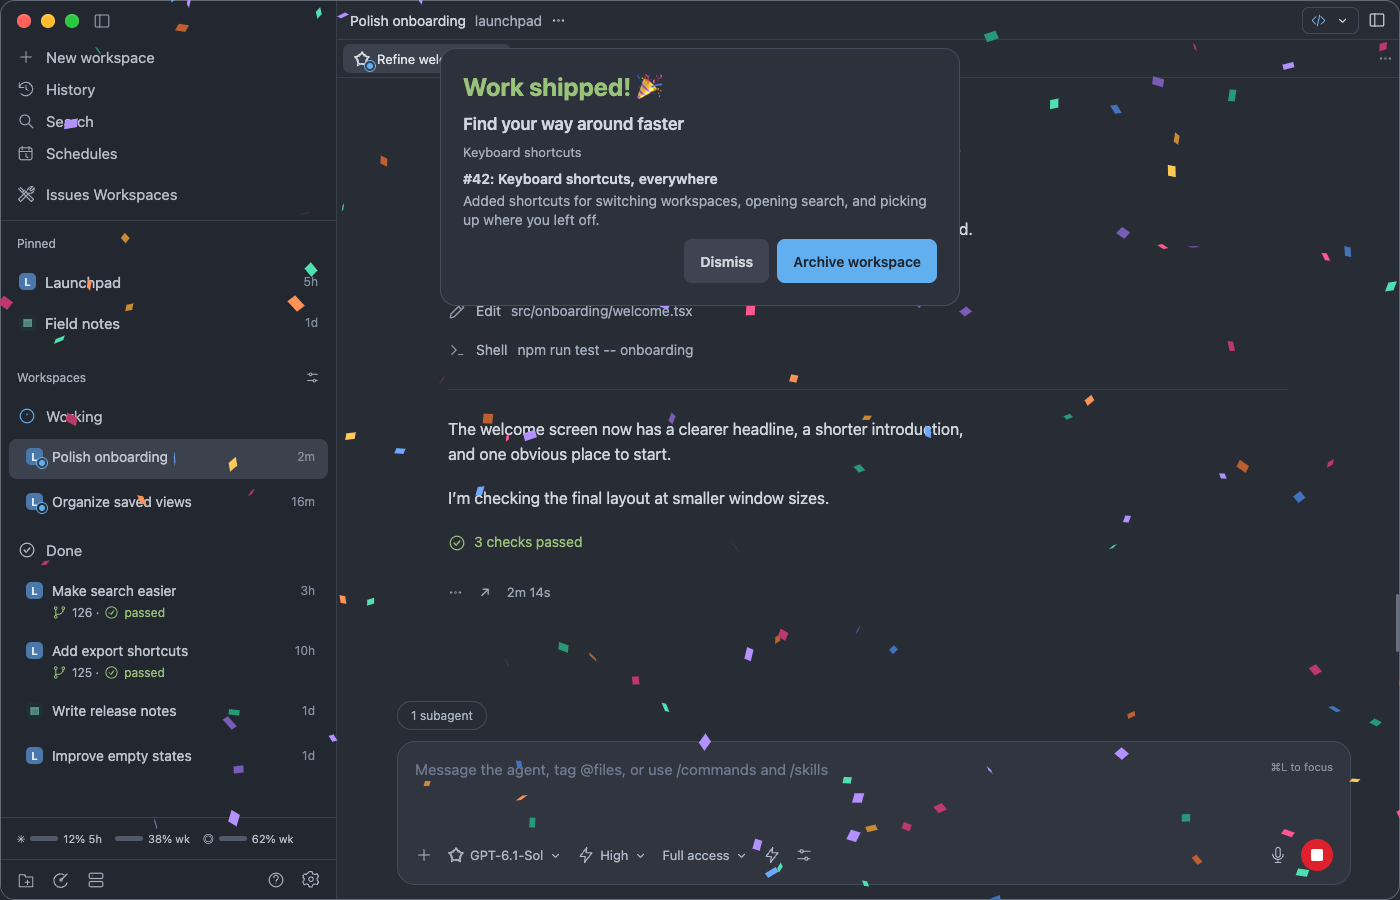
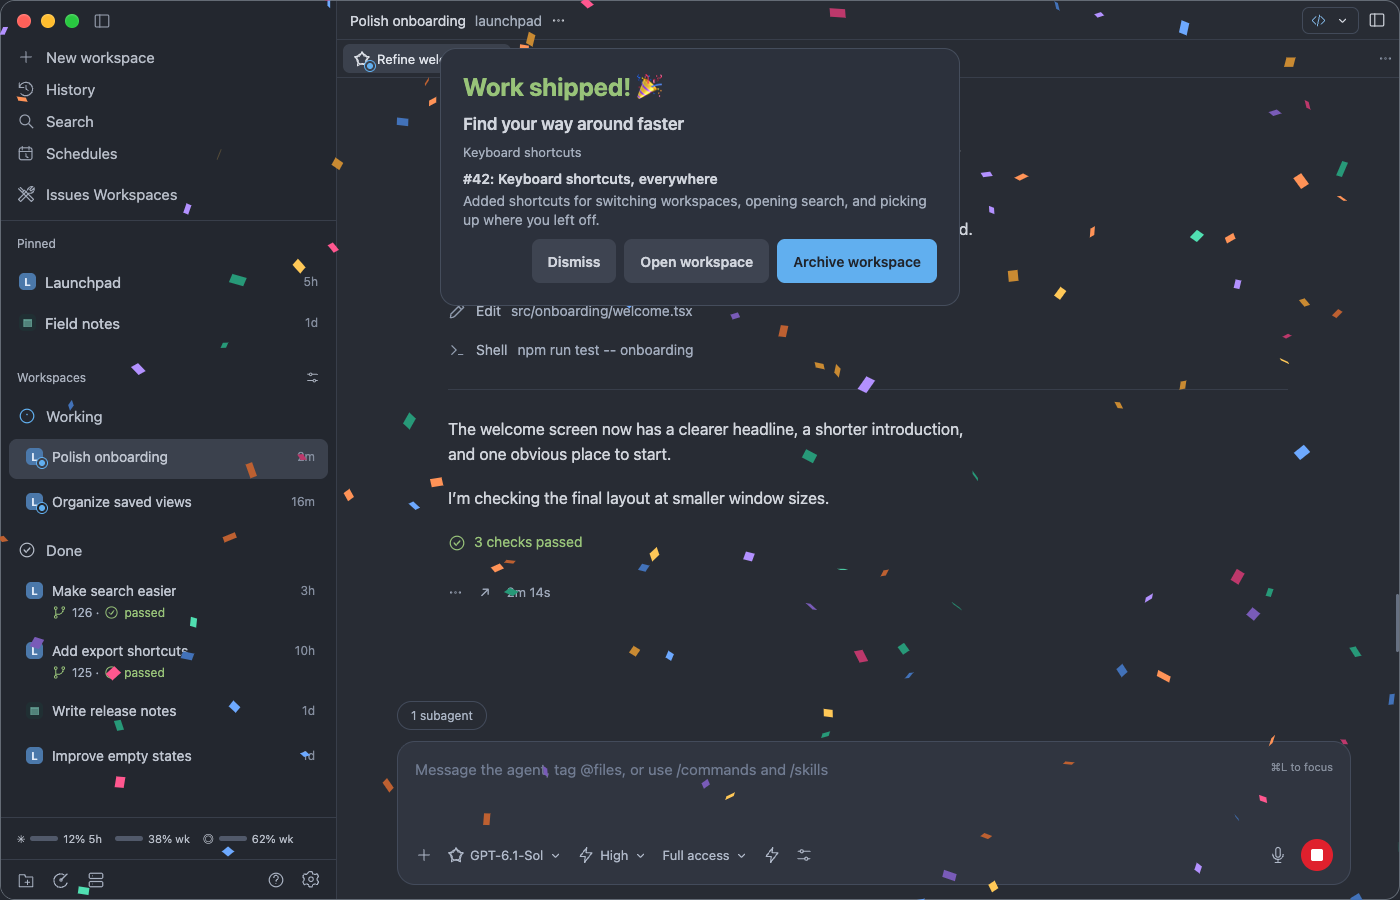
Open workspaces from merge celebrations

diff --git a/tests/browser/celebration.spec.ts b/tests/browser/celebration.spec.ts
@@ -323,10 +323,60 @@ test("a pending archive cannot repeat or dismiss the next celebration", async ({
   await page.getByRole("button", { name: "Archive workspace" }).click();
   await expect(page.getByRole("button", { name: "Archive workspace" })).toBeDisabled();
   await expect(page.locator("body")).toHaveAttribute("data-archive-count", "1");
+  await expect(page.getByRole("button", { name: "Open workspace", exact: true })).toBeDisabled();
   await page.evaluate(() => (window as unknown as { queueCelebration(id: string): void }).queueCelebration("next"));
   await page.getByRole("button", { name: "Dismiss celebration" }).click();
   await expect(page.locator("body")).toHaveAttribute("data-presented-celebration", "next");
   await page.evaluate(() => (window as unknown as { finishArchive(): void }).finishArchive());
   await expect(page.locator("body")).toHaveAttribute("data-archived-workspace", "merged-workspace");
   await expect(page.getByTestId("celebration-overlay")).toBeVisible();
+});
+
+
+for (const compact of [false, true]) {
+  test(`Open workspace navigates to the celebration workspace without archiving; compact=${compact}`, async ({ page }) => {
+    await page.setViewportSize(compact ? { width: 390, height: 844 } : { width: 1280, height: 800 });
+    await page.goto("/");
+    await page.evaluate(() => (window as unknown as { queueCelebration(): void }).queueCelebration());
+    await page.getByRole("button", { name: "Open workspace", exact: true }).click();
+    await expect(page.getByText("Opened workspace: merged-workspace on test")).toBeVisible();
+    await expect(page.getByTestId("celebration-overlay")).toHaveCount(0);
+    await expect(page.locator("body")).not.toHaveAttribute("data-archive-request");
+  });
+}
+
+test("preview Open workspace button cannot navigate or archive", async ({ page }) => {
+  await page.goto("/");
+  await page.getByRole("button", { name: "Preview merge celebration" }).click();
+  const open = page.getByRole("button", { name: "Open workspace", exact: true });
+  await expect(open).toBeVisible();
+  await expect(open).toBeDisabled();
+  await open.dispatchEvent("click");
+  await expect(page.getByText(/Opened workspace:/)).toHaveCount(0);
+  await expect(page.locator("body")).not.toHaveAttribute("data-archive-request");
+  await expect(page.getByTestId("celebration-overlay")).toBeVisible();
+});
+
+
+test("a failed workspace open keeps the celebration available for retry", async ({ page }) => {
+  await page.goto("/");
+  await page.evaluate(() => {
+    document.body.setAttribute("data-fail-open-screen", "");
+    (window as unknown as { queueCelebration(): void }).queueCelebration();
+  });
+  await page.getByRole("button", { name: "Open workspace", exact: true }).click();
+  await expect(page.getByRole("alert")).toHaveText("Could not open workspace.");
+  await expect(page.getByTestId("celebration-overlay")).toBeVisible();
+  await page.evaluate(() => document.body.removeAttribute("data-fail-open-screen"));
+  await page.getByRole("button", { name: "Open workspace", exact: true }).click();
+  await expect(page.getByText("Opened workspace: merged-workspace on test")).toBeVisible();
+  await expect(page.getByTestId("celebration-overlay")).toHaveCount(0);
+});
+
+test("clients without workspace navigation show a useful fallback", async ({ page }) => {
+  await page.goto("/?no-navigation");
+  await page.evaluate(() => (window as unknown as { queueCelebration(): void }).queueCelebration());
+  await page.getByRole("button", { name: "Open workspace", exact: true }).click();
+  await expect(page.getByRole("alert")).toHaveText("Open this workspace from the sidebar.");
+  await expect(page.locator("body")).not.toHaveAttribute("data-archive-request");
 });

diff --git a/tests/browser/main.tsx b/tests/browser/main.tsx
@@ -1,7 +1,7 @@
-import React, { useState, type ComponentType } from "react";
+import React, { useState, useMemo, type ComponentType } from "react";
 import { createRoot } from "react-dom/client";
 import { Pressable, Text, TextInput, View } from "react-native";
-import type { PluginClientContext, PluginHostProps } from "@getpaseo/plugin/client";
+import type { PluginClientContext, PluginHostProps, PluginScreenProps, PluginOpenScreenInput } from "@getpaseo/plugin/client";
 import contribute from "../../index.client";
 import { createBroker } from "../../server/broker";
 import { previewCelebration } from "../../shared/celebration";
@@ -9,9 +9,20 @@ import { setTestSettings } from "./host";
 let Bridge: ComponentType<PluginHostProps>;
 let preview: () => void;
 let restoreSnapshot = () => {};
+const screens = new Map<string, ComponentType<PluginScreenProps>>();
+let showScreen = (_screen: PluginOpenScreenInput) => {};
 const broker = createBroker();
 const host = { id: "test", label: "Test host" };
 const pluginContext = {
+  addScreen({ id, Component }: { id: string; Component: ComponentType<PluginScreenProps> }) {
+    screens.set(id, Component);
+    return () => screens.delete(id);
+  },
+  openScreen(screen: PluginOpenScreenInput) {
+    if (document.body.hasAttribute("data-fail-open-screen")) throw new Error("Could not open workspace.");
+    if (!screens.has(screen.screenId)) throw new Error("Unknown screen");
+    showScreen(screen);
+  },
   addSidebarFooterItem({ Component }: { Component: ComponentType<PluginHostProps> }) {
     Bridge = Component;
     return () => {};
@@ -71,6 +82,17 @@ Object.assign(window, {
 const cleanup = contribute(pluginContext as unknown as PluginClientContext);
 function App() {
   const [count, setCount] = useState(0);
+  const [screen, setScreen] = useState<PluginOpenScreenInput | null>(null);
+  const [openedWorkspace, setOpenedWorkspace] = useState("");
+  showScreen = setScreen;
+  const Screen = screen ? screens.get(screen.screenId) : undefined;
+  const navigation = useMemo(() => ({
+    openWorkspace({ workspaceId, serverId }: { workspaceId: string; serverId?: string }) {
+      setOpenedWorkspace(`${workspaceId} on ${serverId}`);
+      setScreen(null);
+    },
+    openAgent() {},
+  }), []);
   const [dark, setDark] = useState(true);
   const compact = new URLSearchParams(location.search).has("compact");
   const theme = {
@@ -143,6 +165,14 @@ function App() {
           <Text style={{ color: theme.colors.foreground }}>Reconnect host</Text>
         </Pressable>
       </View>
+      {openedWorkspace && <Text>Opened workspace: {openedWorkspace}</Text>}
+      {Screen && screen && (
+        <Screen
+          host={host} theme={theme} layout={{ compact, platform: "web" }}
+          params={screen.params ?? {}}
+          navigation={new URLSearchParams(location.search).has("no-navigation") ? undefined : navigation}
+        />
+      )}
       <Bridge host={host} layout={{ compact, platform: "web" }} theme={theme} />
     </View>
   );

diff --git a/client/celebration.tsx b/client/celebration.tsx
@@ -34,10 +34,12 @@ export function CelebrationOverlay({
   store,
   settings,
   onArchive,
+  onOpenWorkspace,
 }: Pick<PluginHostProps, "theme" | "layout"> & {
   store: CelebrationStore;
   settings: CelebrationSettings;
   onArchive?: (workspaceId: string) => Promise<void>;
+  onOpenWorkspace?: (workspaceId: string) => void;
 }) {
   const event = useSyncExternalStore(store.subscribe, store.getSnapshot, store.getSnapshot);
   const motionGeneration = useSyncExternalStore(
@@ -133,6 +135,7 @@ export function CelebrationOverlay({
                 theme={theme}
                 workspaceId={event.workspaceId}
                 onArchive={onArchive}
+                onOpenWorkspace={onOpenWorkspace}
                 onDismiss={() => {
                   if (store.getSnapshot()?.id === event.id) store.dismiss();
                 }}
@@ -149,16 +152,29 @@ function CelebrationActions({
   theme,
   workspaceId,
   onArchive,
+  onOpenWorkspace,
   onDismiss,
 }: {
   theme: PluginHostProps["theme"];
   workspaceId?: string;
   onArchive?: (workspaceId: string) => Promise<void>;
+  onOpenWorkspace?: (workspaceId: string) => void;
   onDismiss: () => void;
 }) {
   const [archiving, setArchiving] = useState(false);
   const [error, setError] = useState<string | null>(null);
   const archiveDisabled = !workspaceId || !onArchive || archiving;
+  const openDisabled = !workspaceId || !onOpenWorkspace || archiving;
+  function openWorkspace() {
+    if (!workspaceId || !onOpenWorkspace || archiving) return;
+    setError(null);
+    try {
+      onOpenWorkspace(workspaceId);
+      onDismiss();
+    } catch (error) {
+      setError(error instanceof Error ? error.message : "Could not open workspace. Try again.");
+    }
+  }
   async function archive() {
     if (!workspaceId || !onArchive || archiving) return;
     setArchiving(true);
@@ -194,6 +210,16 @@ function CelebrationActions({
           style={{ ...button, backgroundColor: theme.colors.surface2 }}
         >
           <Text style={{ color: theme.colors.foreground, fontWeight: "600" }}>Dismiss</Text>
+        </Pressable>
+        <Pressable
+          accessibilityRole="button"
+          accessibilityLabel="Open workspace"
+          accessibilityState={{ disabled: openDisabled }}
+          disabled={openDisabled}
+          onPress={openWorkspace}
+          style={{ ...button, backgroundColor: theme.colors.surface2, opacity: openDisabled ? 0.6 : 1 }}
+        >
+          <Text style={{ color: theme.colors.foreground, fontWeight: "600" }}>Open workspace</Text>
         </Pressable>
         <Pressable
           accessibilityRole="button"

diff --git a/index.client.tsx b/index.client.tsx
@@ -6,6 +6,7 @@ import { createPresentationStore, type PresentationStore } from "./client/presen
 import { mountBrowserOverlay } from "./client/web";
 import { startLiveEvents, reportPresented } from "./client/events";
 import { SettingsScreen, useSettingsBridge } from "./client/settings";
+import { OpenWorkspaceScreen } from "./client/workspace";
 import { previewCelebration } from "./shared/celebration";
 
 function ThemeBridge({
@@ -22,9 +23,17 @@ export default function contribute(client: PluginClientContext) {
   if (Platform.OS !== "web") return () => {};
   const store = createCelebrationStore();
   const presentation = createPresentationStore();
+  const removeOpenWorkspace = client.addScreen({
+    id: "open-workspace",
+    title: "Open workspace",
+    Component: OpenWorkspaceScreen,
+  });
   const unmount = mountBrowserOverlay({
     store,
     presentation,
+    onOpenWorkspace(workspaceId) {
+      client.openScreen({ screenId: "open-workspace", params: { workspaceId } });
+    },
     async onArchive(workspaceId) {
       const result = await client.paseo.workspaces.archive(workspaceId);
       if (result.error) throw new Error(result.error);
@@ -87,6 +96,7 @@ export default function contribute(client: PluginClientContext) {
     },
   });
   return () => {
+    removeOpenWorkspace();
     removeOpenSettings();
     removePreview();
     removeSettings();

diff --git a/client/workspace.tsx b/client/workspace.tsx
@@ -1,0 +1,26 @@
+import { useEffect, useState } from "react";
+import { Text } from "react-native";
+import type { PluginScreenProps } from "@getpaseo/plugin/client";
+
+/** Navigation is supplied to plugin screens, rather than the detached overlay. */
+export function OpenWorkspaceScreen({ navigation, host, params, theme }: PluginScreenProps) {
+  const workspaceId = params.workspaceId;
+  const [error, setError] = useState<string | null>(null);
+  useEffect(() => {
+    if (!navigation || !workspaceId) return;
+    try {
+      navigation.openWorkspace({ workspaceId, serverId: host.id });
+    } catch (error) {
+      setError(error instanceof Error ? error.message : "Could not open workspace. Try the sidebar.");
+    }
+  }, [navigation, host.id, workspaceId]);
+  const unavailable = !navigation || !workspaceId;
+  return (
+    <Text
+      accessibilityRole={error || unavailable ? "alert" : undefined}
+      style={{ color: theme.colors.foregroundMuted }}
+    >
+      {error ?? (unavailable ? "Open this workspace from the sidebar." : "Opening workspace…")}
+    </Text>
+  );
+}

diff --git a/client/root.tsx b/client/root.tsx
@@ -7,10 +7,17 @@ import type { PresentationStore } from "./presentation";
 export interface OverlayRootProps {
   store: CelebrationStore;
   presentation: PresentationStore;
+  onOpenWorkspace?: (workspaceId: string) => void;
   onArchive?: (workspaceId: string) => Promise<void>;
   onPresented?: (id: string) => void;
 }
-export function OverlayRoot({ store, presentation, onPresented, onArchive }: OverlayRootProps) {
+export function OverlayRoot({
+  store,
+  presentation,
+  onPresented,
+  onArchive,
+  onOpenWorkspace,
+}: OverlayRootProps) {
   const [visible, setVisible] = useState(AppState.currentState === "active");
   useEffect(() => {
     const subscription = AppState.addEventListener("change", (state) => {
@@ -43,6 +50,7 @@ export function OverlayRoot({ store, presentation, onPresented, onArchive }: Ove
       store={store}
       settings={settings}
       onArchive={onArchive}
+      onOpenWorkspace={onOpenWorkspace}
     />
   );
 }

diff --git a/shared/celebration.ts b/shared/celebration.ts
@@ -49,7 +49,7 @@ export const previewCelebration: Celebration = {
       number: 42,
       title: "Celebrate shipped work",
       summary:
-        "Added a fullscreen celebration when a pull request merges, with dismiss and archive buttons and support for reduced motion.",
+        "Added a fullscreen celebration when a pull request merges, with dismiss, open workspace and archive buttons and support for reduced motion.",
     },
   ],
 };

diff --git a/tests/browser/marketing.tsx b/tests/browser/marketing.tsx
@@ -20,7 +20,12 @@ presentation.update({
     statusDanger: "#e06c75",
   },
 });
-mountBrowserOverlay({ store, presentation, onArchive: async () => { store.dismiss(); } });
+mountBrowserOverlay({
+  store,
+  presentation,
+  onOpenWorkspace: () => { store.dismiss(); },
+  onArchive: async () => { store.dismiss(); },
+});
 store.show({
   id: "marketing-preview",
   workspaceName: "Keyboard shortcuts",

diff --git a/DEVELOPMENT.md b/DEVELOPMENT.md
@@ -1,6 +1,6 @@
 # Setup and development
 
-Fullscreen confetti over the current Paseo desktop/browser window when Paseo detects a workspace's GitHub PR merge. Includes Dismiss and Archive workspace buttons, linked issue recaps, reduced-motion support and **Preview merge celebration** in the Command Center. The current screen stays mounted and usable.
+Fullscreen confetti over the current Paseo desktop/browser window when Paseo detects a workspace's GitHub PR merge. Includes Dismiss, Open workspace and Archive workspace buttons, linked issue recaps, reduced-motion support and **Preview merge celebration** in the Command Center. The current screen stays mounted and usable.
 
 This version supports **stock Paseo 0.11.2 through 0.12.x**, including a 0.12.0 app connected to a 0.11.2 daemon. It needs no app patch, app rebuild or daemon restart. The earlier patch-dependent implementation has been replaced.
 
@@ -48,7 +48,7 @@ Before accepting a live client, the server observes workspace descriptors throug
 
 The server captures repository and branch identity from descriptors, falling back to Git when needed. It reads `refs/heads/<branch>` from the main repository, checks the known PR or GitHub's PRs associated with that exact commit, and requires an identical PR head SHA, `MERGED` state and a merge timestamp. Updates are deduplicated by workspace and PR URL, including after presentation. Failed checks can retry on later descriptor updates. Subscription observation continues after client leases expire, so a detected merge can wait for a client to reconnect.
 
-The recap offers **Dismiss**, which closes the celebration and keeps the workspace, and **Archive workspace**, which calls the selected host's normal `paseo.workspaces.archive(workspaceId)` SDK method. Archive requests disable the archive button while pending. A failed request shows an error and leaves both dismissal and retry available. Success dismisses only the originating celebration, so a later queued recap stays open. Previews carry no workspace ID and show a disabled Archive workspace button that cannot call the archive API. If a descriptor already has `archivingAt`, its celebration disables the archive action. Paseo's own automatic archival setting still applies; disable it to choose archival from this dialog.
+The recap offers **Dismiss**, which closes the celebration and keeps the workspace, **Open workspace**, which navigates to the celebration’s workspace and closes the recap, and **Archive workspace**, which calls the selected host's normal `paseo.workspaces.archive(workspaceId)` SDK method. Archive requests disable the archive button while pending. A failed request shows an error and leaves both dismissal and retry available. Success dismisses only the originating celebration, so a later queued recap stays open. Previews carry no workspace ID and disable both workspace actions. Open workspace uses a registered plugin screen to access the public `navigation.openWorkspace({ workspaceId, serverId: host.id })` capability, so navigation stays on the celebration’s host. Clients without navigation show a sidebar fallback. While archival is pending, opening the workspace is disabled. If a descriptor already has `archivingAt`, its celebration disables the archive action. Paseo's own automatic archival setting still applies; disable it to choose archival from this dialog.
 
 Up to three GitHub closing issues get a 300-character plain text excerpt. Missing issue bodies fall back to issue titles. If an issue cannot be fetched, a numbered placeholder preserves the verified merge celebration. The PR title describes the shipped change. No model is called and Markdown/HTML is not executed.
 
@@ -77,7 +77,7 @@ The daemon integration test uses a prepared Paseo source checkout (`npm ci`, `np
 PASEO_SOURCE=/absolute/path/to/paseo npm run test:archive
 ```
 
-It temporarily adds a test fixture to the existing server test suite, starts a disposable daemon on a random port, installs the plugin, and watches a temporary Git workspace. GitHub responses use a deterministic test-only executable; no remote PR is created or merged. Synthetic open-to-merged forge snapshots exercise the actual workspace observation, RPC delivery and celebration store, with automatic archival disabled. The test checks that the workspace remains active until explicitly archived through the SDK. The ordinary test suite also checks duplicate snapshots, historical merges, recovery, verification failure and merge lookup after a real worktree is removed. Browser tests cover separate dismissal and archive actions, compact layouts, archive failures and retries.
+It temporarily adds a test fixture to the existing server test suite, starts a disposable daemon on a random port, installs the plugin, and watches a temporary Git workspace. GitHub responses use a deterministic test-only executable; no remote PR is created or merged. Synthetic open-to-merged forge snapshots exercise the actual workspace observation, RPC delivery and celebration store, with automatic archival disabled. The test checks that the workspace remains active until explicitly archived through the SDK. The ordinary test suite also checks duplicate snapshots, historical merges, recovery, verification failure and merge lookup after a real worktree is removed. Browser tests cover separate dismissal, open and archive actions, compact layouts, archive failures and retries.
 
 See [verification evidence](artifacts/verification.md) for recorded results and platform limits.
 

diff --git a/README.md b/README.md
@@ -4,7 +4,7 @@
 
 A little celebration for a lot of hard work. When your pull request is merged, colorful confetti falls across Paseo, with a recap of what you just shipped.
 
-![Colorful confetti falling over a sample Paseo workspace, with a “Work shipped!” recap and Dismiss and Archive workspace buttons](docs/celebration-preview.png)
+![Colorful confetti falling over a sample Paseo workspace, with a “Work shipped!” recap and Dismiss, Open workspace and Archive workspace buttons](docs/celebration-preview.png)
 
 _Staged screenshot: the real celebration UI over a fictional workspace._
 
@@ -13,7 +13,7 @@ _Staged screenshot: the real celebration UI over a fictional workspace._
 - **Celebrate automatically.** Merge your PR and let the confetti fly.
 - **Remember the win.** See the PR title and a short recap of linked issues.
 - **Keep your flow.** Your current screen stays right where it is, ready to use.
-- **Enjoy it as long as you like.** Hit **Dismiss** to keep working, or **Archive workspace** to put the workspace away. The last pieces drift offscreen.
+- **Enjoy it as long as you like.** Hit **Dismiss** to keep working, **Open workspace** to jump to the work you shipped, or **Archive workspace** to put it away. The last pieces drift offscreen.
 - **Keep it calm.** Reduced motion gives you the recap without the animation.
 - **Make it yours.** Pick the words, the emoji and the kind of confetti you like.
 
@@ -38,7 +38,7 @@ Changes apply right away, even to confetti that’s already falling. Press **Pre
 
 ## Try a little joy
 
-Open the Command Center with **⌘K** (or **Ctrl+K**) and choose **Preview merge celebration**. No merge needed. Archive workspace is disabled in previews.
+Open the Command Center with **⌘K** (or **Ctrl+K**) and choose **Preview merge celebration**. No merge needed. Open workspace and Archive workspace are disabled in previews.
 
 Supports **Paseo 0.11.2 through 0.12.x on desktop and in the browser**, with GitHub pull requests.
 

diff --git a/OVERVIEW.md b/OVERVIEW.md
@@ -1,4 +1,4 @@
-Merge celebration plays colorful confetti across your current Paseo desktop or browser window when Paseo detects that a workspace’s GitHub pull request has merged. A recap shows the PR title and excerpts from up to three linked closing issues. Confetti keeps falling while the recap is open. Choose Dismiss to close the celebration and keep the workspace, or Archive workspace to archive it and close the celebration after success. Failed archive requests stay open for retry. Either action stops new confetti and lets the remaining pieces drift offscreen. Events received while the same connected window is hidden wait for visibility before animating. Preview merge celebration is available in the Command Center.
+Merge celebration plays colorful confetti across your current Paseo desktop or browser window when Paseo detects that a workspace’s GitHub pull request has merged. A recap shows the PR title and excerpts from up to three linked closing issues. Confetti keeps falling while the recap is open. Choose Dismiss to close the celebration and keep the workspace, Open workspace to navigate to it and close the celebration, or Archive workspace to archive it and close the celebration after success. Failed archive requests stay open for retry. Each action stops new confetti and lets the remaining pieces drift offscreen. Events received while the same connected window is hidden wait for visibility before animating. Preview merge celebration is available in the Command Center.
 
 Settings → Plugins → Merge celebration lets you turn live celebrations off, pick the headline verb (shipped, landed, merged, committed or deployed) and emoji, hide the issue recap, and turn confetti off or change its size, speed and amount. Settings are saved on the daemon and shared by every client connected to it.
 
